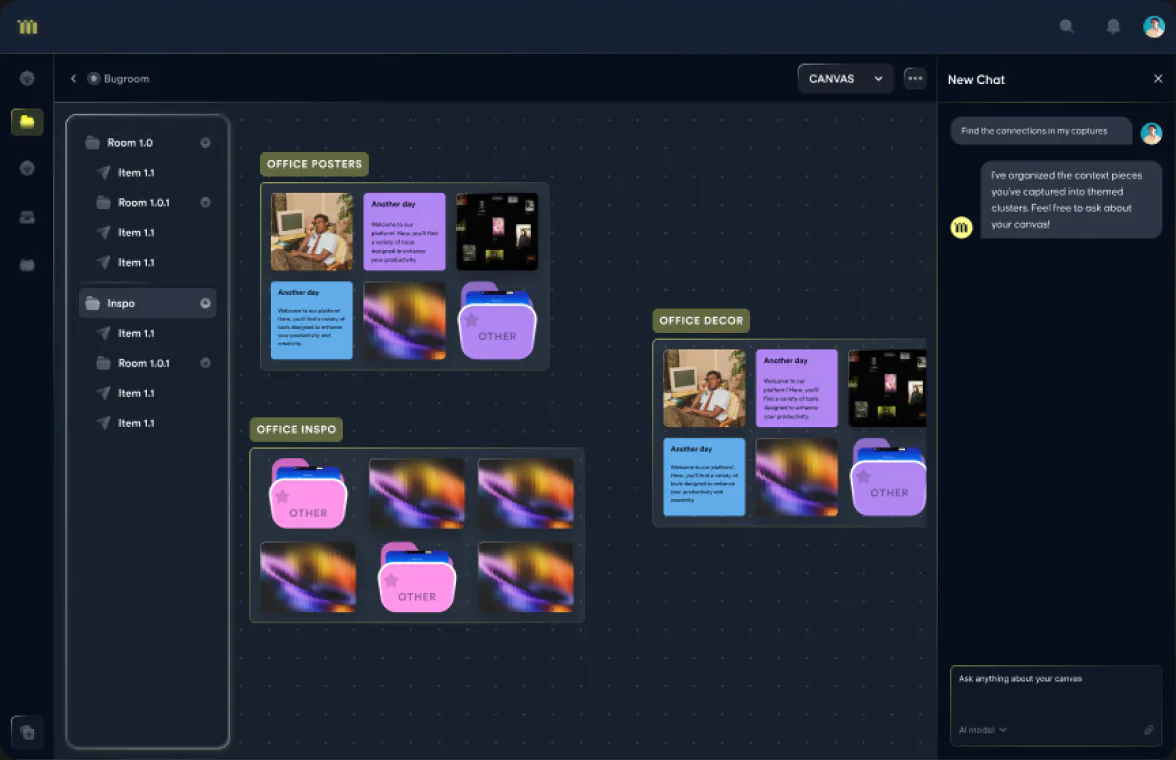
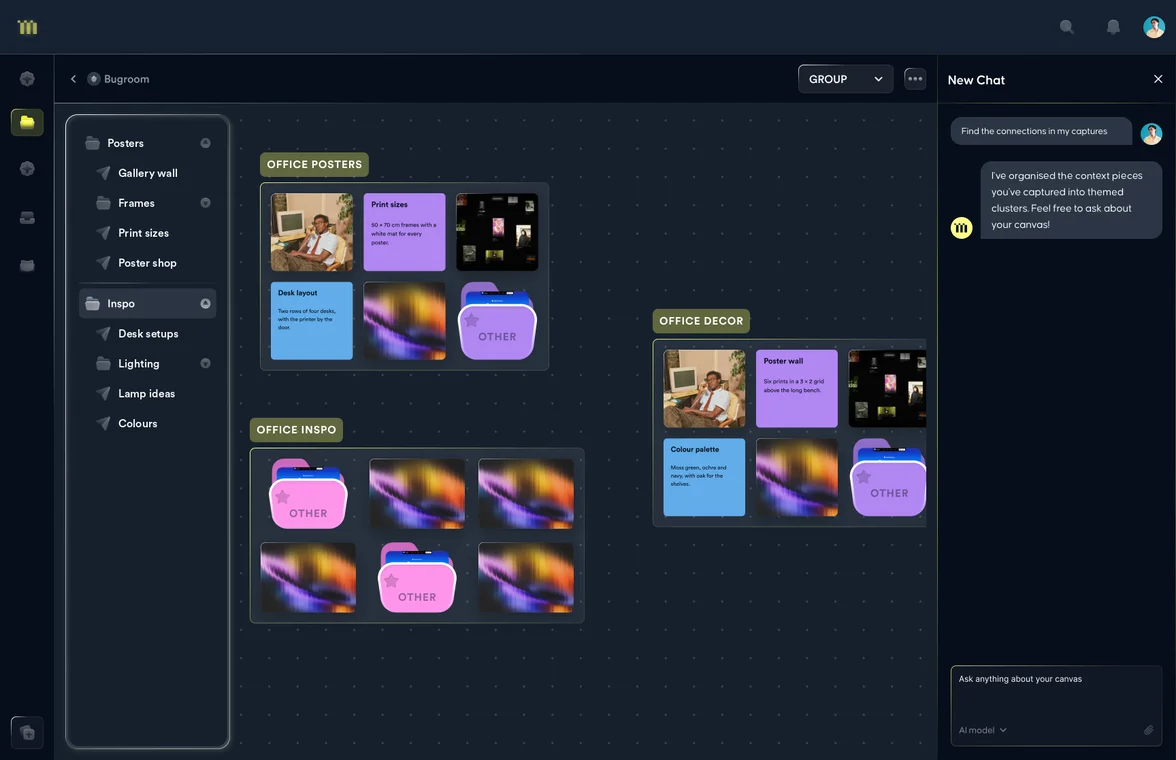
monty screens: real room, note and file names instead of placeholders

diff --git a/work/monty.html b/work/monty.html
@@ -457,7 +457,7 @@
             </div>
             <div class="section-item col-3">
               <figure class="figure-card figure-card-dark">
-                <img src="/assets/lake-cam--monty--final-screens--retrieval-3-act-on-it.webp" width="720" height="466" alt="Capture opened in full: the photo with its colour palette, its room path, an 80% compatibility score and related captures, above Open, Edit, Summarise and Chat actions" loading="lazy" decoding="async" />
+                <img src="/assets/lake-cam--monty--final-screens--retrieval-3-act-on-it.webp" width="720" height="466" alt="calendar-asset.jpeg opened in full: the café table photo with its colour palette, its room path, an 80% compatibility score, a short description and related captures, above Open, Edit, Summarise and Chat actions" loading="lazy" decoding="async" />
                 <figcaption>
                   <span class="main-caption full-width">
                     Act on it
@@ -509,7 +509,7 @@
           <div class="section-container">
             <div class="section-item col-2">
               <figure class="figure-card figure-card-dark">
-                <img src="/assets/lake-cam--monty--final-screens--synthesize-2-canvas.webp" width="1176" height="760" alt="Bugroom in Canvas view: photos, notes and folders placed freely, with a handwritten new connections note and arrows linking two captures" loading="lazy" decoding="async" />
+                <img src="/assets/lake-cam--monty--final-screens--synthesize-2-canvas.webp" width="1176" height="760" alt="Bugroom in Canvas view: photos, folders and notes such as Lighting plan, Poster wall and Colour palette placed freely, with a handwritten new connections note and arrows linking two captures" loading="lazy" decoding="async" />
                 <figcaption>
                   <span class="main-caption full-width">
                     Canvas
@@ -522,7 +522,7 @@
             </div>
             <div class="section-item col-2">
               <figure class="figure-card figure-card-dark">
-                <img src="/assets/lake-cam--monty--final-screens--synthesize-3-feed.webp" width="1176" height="760" alt="Bugroom in Feed view: a room description and note box above a timeline of captures, newest first, under an Office Decor theme" loading="lazy" decoding="async" />
+                <img src="/assets/lake-cam--monty--final-screens--synthesize-3-feed.webp" width="1176" height="760" alt="Bugroom in Feed view: a room description box above a timeline of captures, newest first, with Desk setups and Office Posters under an Office Decor theme" loading="lazy" decoding="async" />
                 <figcaption>
                   <span class="main-caption full-width">
                     Feed
